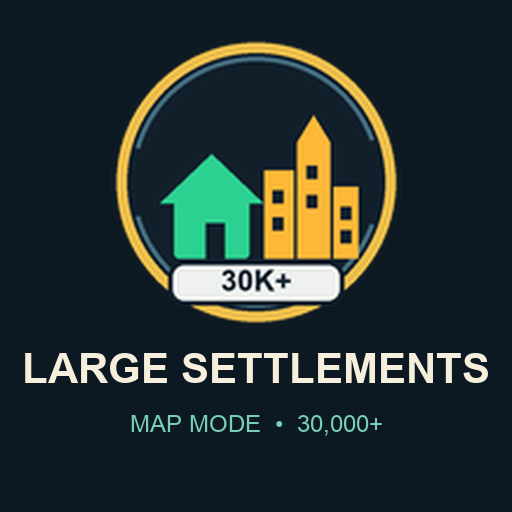
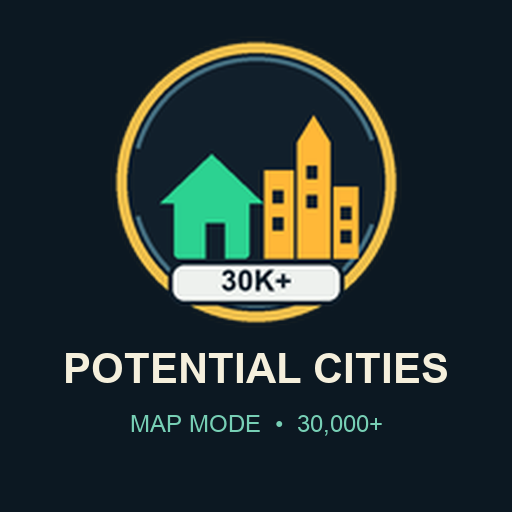
bug fixes

Changed region(s): [[0.0312, 0.6875, 0.9688, 0.75]]

diff --git a/tools/validate_mod.py b/tools/validate_mod.py
@@ -1,5 +1,5 @@
 #!/usr/bin/env python3
-"""Dependency-free static checks for the Large Settlements EU5 mod."""
+"""Dependency-free static checks for the Potential Cities EU5 mod."""
 
 from __future__ import annotations
 
@@ -74,7 +74,9 @@ def main() -> int:
         "location_rank ?= location_rank:town",
         "small_map_names = raw_material",
         "medium_map_names = raw_material",
+        "market_marker = yes",
         "raw_goods_marker = yes",
+        "category = economy",
         "LocationPopulationChanged",
         "LocationOwnerChanged",
     )
@@ -83,6 +85,8 @@ def main() -> int:
             errors.append(f"map-mode script is missing: {token}")
     if "population >= 30" in script:
         errors.append("threshold must be strictly greater than 30, not greater than or equal")
+    if "all = no" in script:
+        errors.append("map markers must use an explicit allow-list so raw-goods icons remain visible")
 
     localization = LOCALIZATION.read_text(encoding="utf-8-sig")
     if not localization.startswith("l_english:\n"):

diff --git a/tools/generate_art.py b/tools/generate_art.py
@@ -66,7 +66,7 @@ def build_thumbnail(icon: Image.Image) -> Image.Image:
 
     title_font = font(42, bold=True)
     subtitle_font = font(24)
-    title = "LARGE SETTLEMENTS"
+    title = "POTENTIAL CITIES"
     subtitle = "MAP MODE  •  30,000+"
     for text, y, face, color in [
         (title, 344, title_font, (245, 239, 220)),
